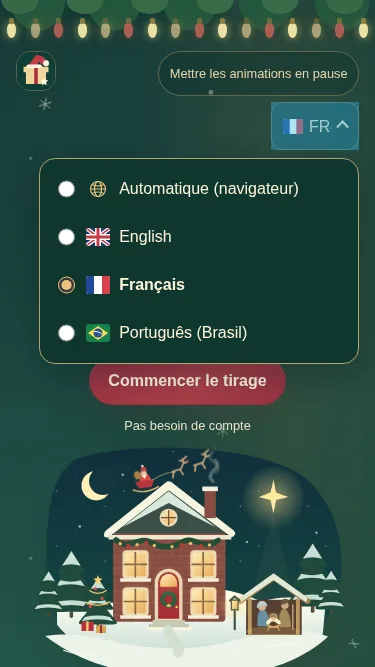
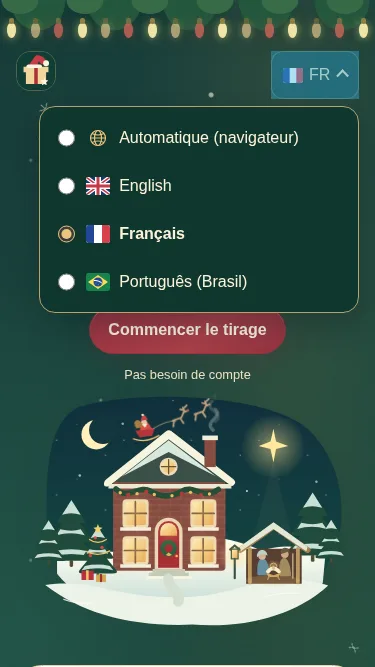
Remove the animation toggle and persisted motion preference

diff --git a/index.html b/index.html
@@ -14,7 +14,7 @@
     <link rel="stylesheet" href="./apps/web/styles.css">
     <script type="module" src="./apps/web/app.js"></script>
   </head>
-  <body data-controller="festivity page" data-motion="paused" data-action="locale:changed@document->festivity#render hashchange@window->page#route exchange:ready->page#ready invitation:ready->page#ready">
+  <body data-controller="festivity page" data-motion="paused" data-action="hashchange@window->page#route exchange:ready->page#ready invitation:ready->page#ready">
     <a class="skip-link" href="#main" data-i18n="nav.skip" data-action="click->page#skip:prevent">Skip to the exchange</a>
     <div class="snowfall" aria-hidden="true">
       <div class="snow-layer snow-far ambient-motion"></div><div class="snow-layer snow-near ambient-motion"></div>
@@ -24,7 +24,6 @@
     <div class="topbar">
       <div class="wordmark"><img src="./apps/web/icon.svg" width="40" height="40" alt=""><span data-i18n="app.title">Secret Santa</span></div>
       <div class="topbar-controls">
-        <button class="motion-toggle" type="button" disabled data-festivity-target="toggle" data-action="festivity#toggle" data-i18n="design.pause">Pause animations</button>
         <div class="language-picker" data-controller="locale" data-action="languagechange@window->locale#detect locale:changed@document->locale#render pointerdown@document->locale#outside focusin@document->locale#outside keydown.esc@document->locale#escape resize@window->locale#position scroll@window->locale#position">
           <span id="language-label" class="sr-only" data-i18n="language.label">Language</span>
           <details class="language-menu" data-locale-target="menu" data-action="toggle->locale#position">

diff --git a/apps/web/controllers/festivity_controller.js b/apps/web/controllers/festivity_controller.js
@@ -1,14 +1,8 @@
 import { Controller } from '../vendor/stimulus.js';
-import { i18n } from '../localization.js';
-
-const MOTION_KEY = 'secretsanta.motion';
 
 export default class extends Controller {
-  static targets = ['toggle'];
-
   connect() {
     this.media = matchMedia('(prefers-reduced-motion: reduce)');
-    try { this.paused = localStorage.getItem(MOTION_KEY) === 'paused'; } catch { this.paused = false; }
     this.abort = new AbortController();
     this.media.addEventListener('change', () => this.render(), { signal: this.abort.signal });
     this.render();
@@ -16,18 +10,7 @@ export default class extends Controller {
 
   disconnect() { this.abort.abort(); }
 
-  toggle() {
-    if (this.media.matches) return;
-    this.paused = !this.paused;
-    try { localStorage.setItem(MOTION_KEY, this.paused ? 'paused' : 'playing'); } catch { /* Motion control still works in memory. */ }
-    this.render();
-  }
-
   render() {
-    const reduced = this.media.matches;
-    const paused = reduced || this.paused;
-    this.element.dataset.motion = paused ? 'paused' : 'playing';
-    this.toggleTarget.disabled = reduced;
-    this.toggleTarget.textContent = i18n.t(reduced ? 'design.motionReduced' : paused ? 'design.play' : 'design.pause');
+    this.element.dataset.motion = this.media.matches ? 'paused' : 'playing';
   }
 }

diff --git a/apps/web/styles.css b/apps/web/styles.css
@@ -76,7 +76,6 @@ a { color: var(--green); text-underline-offset: .2em; }
 .language-options span { min-width: 0; overflow-wrap: anywhere; }
 .language-choice { display: grid; grid-template-columns: 1.5rem minmax(0, 1fr); align-items: center; gap: .6rem; min-width: 0; line-height: 1.35; }
 .language-icon { display: block; width: 1.5rem; height: 1.125rem; border-radius: .15rem; }
-button.motion-toggle { border-color: #e1bc7455; color: #ead5aa; background: #0c302a66; font-size: .75rem; font-weight: 500; padding: .45rem .65rem; min-height: 2.6rem; max-width: 100%; }
 .topbar :focus-visible { outline-color: #f4d28e; }
 .site-header { max-width: 1200px; margin: 1rem auto 4rem; display: grid; grid-template-columns: 1fr 1.1fr; align-items: center; padding: 1rem 2rem 0; gap: .5rem; }
 .hero-copy { padding: 2rem 0 2rem 1rem; }
@@ -188,7 +187,6 @@ footer summary { color: #f0dfb4; }
 }
 @media (max-width: 650px) {
   .topbar { padding: 3.2rem 1rem 0; }
-  button.motion-toggle { font-size: .8rem; min-height: 2.8rem; }
   .site-header { grid-template-columns: 1fr; text-align: center; margin: .5rem auto 2rem; padding: 0 1.25rem; gap: 0; }
   .hero-copy { padding: .5rem .25rem 0; }
   .hero-copy .eyebrow { justify-content: center; font-size: .65rem; }

diff --git a/service-worker.js b/service-worker.js
@@ -1,6 +1,6 @@
 // Bump the version whenever any precached runtime file changes. Install the
 // whole release before activation; do not replace a running app without consent.
-const CACHE_VERSION = '2026-10-27-ux-3';
+const CACHE_VERSION = '2026-10-27-ux-4';
 const SCOPE = new URL(self.registration.scope);
 const CACHE_PREFIX = `secretsanta-shell:${encodeURIComponent(SCOPE.pathname)}:`;
 const CACHE_NAME = `${CACHE_PREFIX}${CACHE_VERSION}`;

diff --git a/apps/web/i18n/fr.js b/apps/web/i18n/fr.js
@@ -149,7 +149,4 @@ export default {
   'design.stepPeople': 'Ajoutez les noms',
   'design.stepDraw': 'Lancez le tirage',
   'design.stepShare': 'Envoyez les liens',
-  'design.pause': 'Mettre les animations en pause',
-  'design.play': 'Reprendre les animations',
-  'design.motionReduced': 'Animations réduites activées',
 };

diff --git a/apps/web/i18n/pt-BR.js b/apps/web/i18n/pt-BR.js
@@ -149,7 +149,4 @@ export default {
   'design.stepPeople': 'Adicione os nomes',
   'design.stepDraw': 'Faça o sorteio',
   'design.stepShare': 'Envie os links',
-  'design.pause': 'Pausar animações',
-  'design.play': 'Retomar animações',
-  'design.motionReduced': 'Movimento reduzido ativado',
 };

diff --git a/apps/web/i18n/en.js b/apps/web/i18n/en.js
@@ -149,7 +149,4 @@ export default {
   'design.stepPeople': 'Add names',
   'design.stepDraw': 'Draw names',
   'design.stepShare': 'Send the links',
-  'design.pause': 'Pause animations',
-  'design.play': 'Resume animations',
-  'design.motionReduced': 'Reduced motion enabled',
 };

diff --git a/docs/testing.md b/docs/testing.md
@@ -47,7 +47,8 @@ Run on Safari/iOS, Safari/macOS, Chrome/Android, desktop Chrome, Firefox, and Ed
 - [ ] Check the network panel: static same-origin assets only; no fields or invitation fragments in request URLs.
 - [ ] Check English, French, and Brazilian Portuguese, browser-language detection, English fallback, and the automatic/manual language selector. Switch languages before and after drawing/revealing; no fields or assignments should change.
 - [ ] Check radio, flag, and text alignment, including wrapped labels and enlarged text. Confirm the selected flag (or Automatic globe) appears in the closed picker and all icons load offline. Screen readers should announce language names without flag descriptions.
-- [ ] Check the compact toolbar code reflects the active language, including browser detection. The closed trigger stays discreet, while opening it shows full names within the screen. Verify the pause control remains usable when toolbar controls wrap.
+- [ ] Check the compact toolbar code reflects the active language, including browser detection. The closed trigger stays discreet, while opening it shows full names within the screen.
+- [ ] Animations start automatically with no in-app motion control. Toggle system reduced motion while the page is open: all effects should stop/restart without changing names, links, or reveal state. Verify old saved motion settings have no effect and no new motion preference is stored.
 - [ ] Open the language picker on each mobile browser, including landscape and enlarged text. Check the open panel stays within the screen, all choices remain reachable, radio arrows work, and Escape/outside taps/Tab dismiss it without trapping focus. Check the disclosure name and radio group with a screen reader.
 
 ## Verified in the initial implementation
@@ -79,7 +80,7 @@ Manual follow-ups: first-install failure UI, actual OS installation menus, iOS s
 BASE_URL=http://localhost:8000/ PLAYWRIGHT_MODULE=/tmp/opencode/secretsanta-browser/node_modules/playwright/index.mjs CHROMIUM_PATH=/usr/bin/chromium node scripts/design-smoke.mjs
 ```
 
-17 scenarios pass: every combination of en/fr/pt-BR with 320/375/390/768/1440px layouts, plus a keyboard/constrained-picker scenario and system reduced motion. They cover overflow, pause persistence, translated motion controls, and ordinary reveal behaviour. Mobile cases use touch emulation, including the reported 375 × 667px viewport. The script saves screenshots in `/tmp/opencode` by default; `SCREENSHOT_DIR` selects another existing directory. Selected review snapshots are in `docs/screenshots`.
+18 scenarios pass: every combination of en/fr/pt-BR with 320/375/390/768/1440px layouts, plus keyboard/constrained-picker, legacy motion storage, and system reduced-motion scenarios. They cover overflow, automatic animation after reload, absence of motion controls/storage access, and ordinary reveal behaviour. Mobile cases use touch emulation, including the reported 375 × 667px viewport. The script saves screenshots in `/tmp/opencode` by default; `SCREENSHOT_DIR` selects another existing directory. Selected review snapshots are in `docs/screenshots`.
 
 For the optional accessibility checks, add only external tooling:
 
@@ -90,7 +91,7 @@ BASE_URL=http://localhost:8000/ PLAYWRIGHT_MODULE=/tmp/opencode/secretsanta-brow
 
 18 axe WCAG A/AA scenarios pass: 6 UI states in each language, including expanded form options, the open language picker, results, modal confirmation, invitation guard, and revealed assignment. No automated violations were reported. Screen-reader review and physical devices remain required manual follow-ups. The 35 Node tests, 16 UI scenarios, and 6 real-worker scenarios also pass with the Christmas art included in offline caching.
 
-The copy/motion follow-up adds an English HTML/catalogue synchronisation check. The design scenarios verify that the sleigh, smoke, windows, star, and snowflakes really have running animation timelines; pausing stops every ambient timeline, including its clock. They also test live reduced-motion changes and verify that paused/reduced entry effects never leave invitation cards hidden. Updated desktop/mobile screenshots were inspected, and the added illustration layers are included in the offline coverage check.
+The copy/motion follow-up adds an English HTML/catalogue synchronisation check. The design scenarios verify that the sleigh, smoke, windows, star, and snowflakes have running animation timelines by default. They test live reduced-motion changes and verify that entry effects never leave invitation cards hidden. A legacy paused setting is seeded while storage methods are instrumented: it must have no effect, and motion must never read, write, or delete storage. Updated desktop/mobile screenshots were inspected, and the illustration layers are included in the offline coverage check.
 
 The mobile-picker follow-up checks 16px text, a 48px minimum trigger/rows, compact trigger width, and centre-point hit testing. The original native-popup test did not check the popup's bounds. The replacement uses native details and radios in an in-page panel: tests tap it open, check every panel edge against the viewport, verify no internal horizontal overflow, and tap Automatic/English/French/Portuguese. The panel stays wider than the discreet trigger, and the compact code follows the active language. Separate checks use native radio arrow navigation, Enter/Escape, Tab, and outside clicks. They also cover 667 × 375px landscape, a 375 × 280px short viewport, and doubled root text size at 320px, including reaching the last choice by scrolling the panel. A screenshot records the open French picker at 375 × 667px. Actual Safari/iOS, browser zoom, and screen readers still require manual checks.
 
@@ -100,4 +101,4 @@ Alignment checks measure the vertical centres of each native radio, local flag/g
 
 The 16 UI scenarios include first-screen CTA visibility at 375 × 667px in en/fr/pt-BR, focus without navigation, compact rows, Enter/empty Enter, synthetic IME confirmation, hint newlines, neighbour focus, safe trailing-row removal, a 50-person limit, removing all names, and native validation of collapsed fields. They verify the CTA preserves completed invitation links and no draw is saved automatically. Invitation cases check first-screen reveal visibility, hidden organiser welcome, generic metadata, no recipient before reveal or after reload, language switching, and clearing revealed text when leaving the route. Physical mobile keyboards and real IME behaviour remain manual checks.
 
-The design suite remains 17 scenarios and the axe suite remains 18. Updated snapshots show the mobile welcome, compact entry, and direct participant entrance. The cache version was bumped; no new runtime dependency or asset was added.
+The design suite has 18 scenarios and the axe suite remains 18. Updated snapshots show the mobile welcome, compact entry, and direct participant entrance. The cache version was bumped; no new runtime dependency or asset was added.

diff --git a/docs/design.md b/docs/design.md
@@ -4,7 +4,7 @@ The page uses an evergreen night sky, cranberry actions, gold highlights, cream 
 
 The house illustration includes Santa's sleigh and reindeer. A small Nativity with Mary, Joseph, and the infant Jesus stands under the Star of Bethlehem. These are decorative background details outside the functional text and forms, with no visible caption. The image has an empty alt attribute because the exchange workflow does not depend on interpreting it.
 
-Snow and lights are pointer-transparent and hidden from assistive technology. They sit behind the content; paper panels keep snow away from inputs and text. Animations are slow, with no flashing or sound. The pause/play control is translated and remembers only an explicit preference. `prefers-reduced-motion` disables both effects regardless of saved preferences. No-JS content starts with effects paused.
+Snow and lights are pointer-transparent and hidden from assistive technology. They sit behind the content; paper panels keep snow away from inputs and text. Animations are slow, with no flashing or sound. They run automatically, with no in-app toggle or motion storage. `prefers-reduced-motion` disables all effects and is followed when the system setting changes. Old motion preferences are ignored without reading, writing, or deleting browser storage. No-JS content starts with effects paused.
 
 The main form uses familiar native controls, visible focus, and a cream reading surface. Names use compact rows in one column; invitation cards use two columns on desktop and stack on phones. All static art and icons are precached, with the worker version bumped for this release.
 
@@ -16,11 +16,11 @@ Rounded panels, fields, buttons, windows, and tree shapes replace the harder edg
 
 The scene has separate local SVG layers for Santa's drifting sleigh, chimney smoke, and changing window glow. The Bethlehem star has a slow halo, while snowflakes drift at different speeds and rotations. Cards settle into place and the assignment opens with a brief transition after the user chooses to reveal it. These effects do not delay input, make network requests, or expose recipient details before consent.
 
-Every continuous effect uses the shared `ambient-motion` class. Pausing freezes their timelines. Entry/reveal effects are only enabled while motion is playing, so pausing never leaves an input or invitation trapped in a partly hidden entrance frame. System reduced motion removes all effects, including button transitions. The worker version and complete asset allowlist were updated.
+Every continuous effect uses the shared `ambient-motion` class. Entry/reveal effects are only enabled while motion is playing. System reduced motion removes all effects, including button transitions, without leaving inputs or invitations trapped in a partly hidden entrance frame. The worker version and complete asset allowlist were updated.
 
 ## Mobile language selector
 
-The language picker is a quiet toolbar disclosure with a small flag/globe and the current interface code (EN, FR, or PT-BR). The full translated label and selected preference remain available to assistive technology. Its closed surface is transparent; a subtle background and border appear on hover or opening. A wrapping toolbar keeps the pause control usable on narrow screens and with enlarged text.
+The language picker is a quiet toolbar disclosure with a small flag/globe and the current interface code (EN, FR, or PT-BR). The full translated label and selected preference remain available to assistive technology. Its closed surface is transparent; a subtle background and border appear on hover or opening. It stays at the right of the toolbar on narrow screens and with enlarged text.
 
 A native details/summary disclosure opens a labelled fieldset of native radio controls. The panel is right-aligned and sized independently of the compact trigger, up to 20rem or the viewport minus side gutters. Full language names wrap and scroll internally when vertical space is limited. A small Stimulus controller measures the available height and opens the panel above the trigger when needed. Text is at least 16px, with a 48px minimum trigger and choice rows.
 
@@ -46,10 +46,10 @@ Invitation links hide the organiser welcome and open on a compact, personalised 
 - [Compact mobile name entry](screenshots/name-entry.webp)
 - [Participant invitation, 375 × 667px](screenshots/invitation.webp)
 
-Organiser and participant snapshots show effects paused; the open-picker snapshot keeps effects running. Names in the participant snapshot are test fixtures. These review assets are not precached.
+Screenshot tooling temporarily freezes effects for organiser and participant captures; the app itself keeps automatic motion. The open-picker snapshot keeps effects running. Names in the participant snapshot are test fixtures. These review assets are not precached.
 
 ## Verification
 
-The design smoke script checks 320px, 375px, 390px, 768px, and 1440px in English, French, and Brazilian Portuguese. It checks overflow, pausing and persistence, normal reveal behaviour, and system reduced motion. At mobile widths it checks the open options panel, touch selection, readable text, hit-area size, and language changes. Desktop, mobile, open-picker, and reveal screenshots were inspected.
+The design smoke script checks 320px, 375px, 390px, 768px, and 1440px in English, French, and Brazilian Portuguese. It checks overflow, automatic motion after reload, absence of motion controls/storage access, normal reveal behaviour, and live system reduced motion. At mobile widths it checks the open options panel, touch selection, readable text, hit-area size, and language changes. Desktop, mobile, open-picker, and reveal screenshots were inspected.
 
 The optional axe audit runs WCAG A/AA rules against organiser/options, the open language picker, invitation cards, redraw dialog, pre-reveal, and revealed views in all 3 languages. These automated checks do not establish full accessibility conformance. Screen-reader use, physical-device touch behaviour, actual zoom, and native OS interfaces still need manual review.

diff --git a/AGENTS.md b/AGENTS.md
@@ -6,7 +6,7 @@
 - HTML owns the structure. Use native controls, details, validation, labels, and visible focus. Stimulus controllers add small behaviours, never framework-specific draw logic.
 - Prefer focused classes for domain behaviour and owned state, such as the draw solver and invitations. Keep low-level validation and random-number helpers as simple functions; avoid inheritance hierarchies and static-only wrapper classes.
 - Keep all interface copy in the en/fr/pt-BR catalogues, including statuses and accessible names. English HTML is the fallback baseline. Domain errors use stable codes/parameters. Language changes must preserve user input, links, and reveal state.
-- Christmas artwork is original and local. Decorative effects must not intercept input or cover text. Respect reduced motion and keep the visible pause control usable in all languages.
+- Christmas artwork is original and local. Decorative effects must not intercept input or cover text. Animations run automatically, respect system reduced motion, and have no in-app toggle or persisted motion preference.
 - JS is required for drawing and decoding. Prevent native submissions of personal data even if initialization fails. Enable JS-only controls only after successful initialization.
 - Draws stay on the device. Invitations use versioned URL fragments. Encoding is not encryption. An organiser holding everyone's links can deliberately reveal assignments.
 - Never log assignments, include recipient names in titles/metadata, or insert untrusted text with `innerHTML`.

diff --git a/apps/web/art/README.md b/apps/web/art/README.md
@@ -1,5 +1,5 @@
 # Christmas illustration
 
-`christmas-scene.svg` is original artwork created for this app. It depicts a snowy Christmas house, gifts, and a small Nativity with Mary, Joseph, the infant Jesus, and the Star of Bethlehem. `sleigh.svg`, `chimney-smoke.svg`, and `window-lights.svg` are aligned decorative layers in the same 760 × 570 coordinate system. CSS animates the layers so one pause control and system reduced motion can stop every effect. None of the artwork contains invitation data.
+`christmas-scene.svg` is original artwork created for this app. It depicts a snowy Christmas house, gifts, and a small Nativity with Mary, Joseph, the infant Jesus, and the Star of Bethlehem. `sleigh.svg`, `chimney-smoke.svg`, and `window-lights.svg` are aligned decorative layers in the same 760 × 570 coordinate system. CSS animates the layers automatically and disables every effect for system reduced motion. None of the artwork contains invitation data.
 
 The cosy holiday-house direction is inspired by the atmosphere of Christmas films, including Home Alone. No film stills, music, logos, characters, or source artwork are included. All shapes are local SVG; no remote images, fonts, or dependencies are needed. Keep it in the service worker allowlist and bump the cache version when it changes.

diff --git a/README.md b/README.md
@@ -86,4 +86,4 @@ Updates install a complete new cache before activation. An active page offers an
 
 The original local illustration includes a warm Christmas house, Santa's sleigh, and a Nativity scene with Mary, Joseph, the infant Jesus, and the Star of Bethlehem. Evergreen, cranberry, gold, falling snow, and twinkling lights carry through the organiser and participant screens. The visual direction evokes a cosy Christmas film without including movie assets.
 
-Use the visible snow/lights control to pause the effects. System reduced-motion settings disable them; the layout and artwork remain complete without animation or JavaScript. No external fonts, media, or audio are loaded. [Design notes and review screenshots](docs/design.md) describe the artwork and accessibility checks.
+Animations run automatically, with no in-app toggle or saved motion preference. System reduced-motion settings disable them; the layout and artwork remain complete without animation or JavaScript. No external fonts, media, or audio are loaded. [Design notes and review screenshots](docs/design.md) describe the artwork and accessibility checks.
